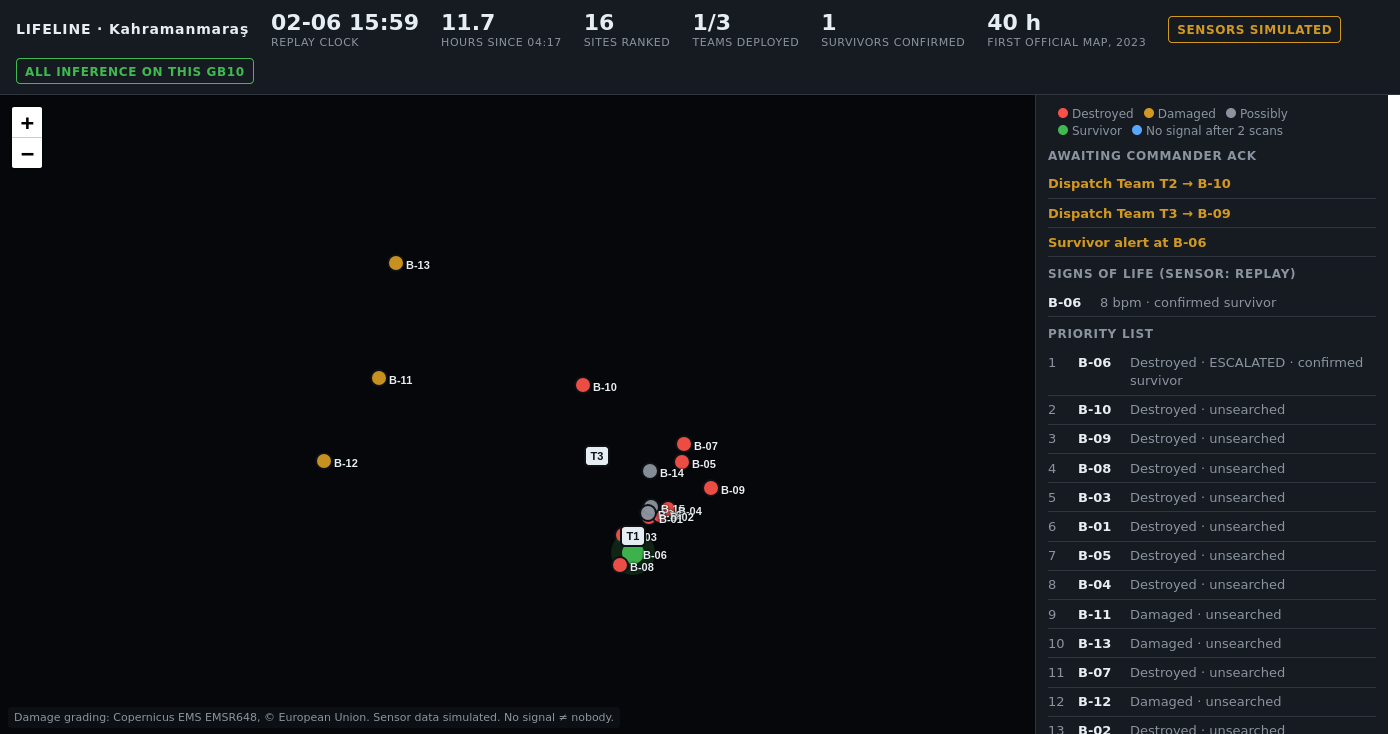
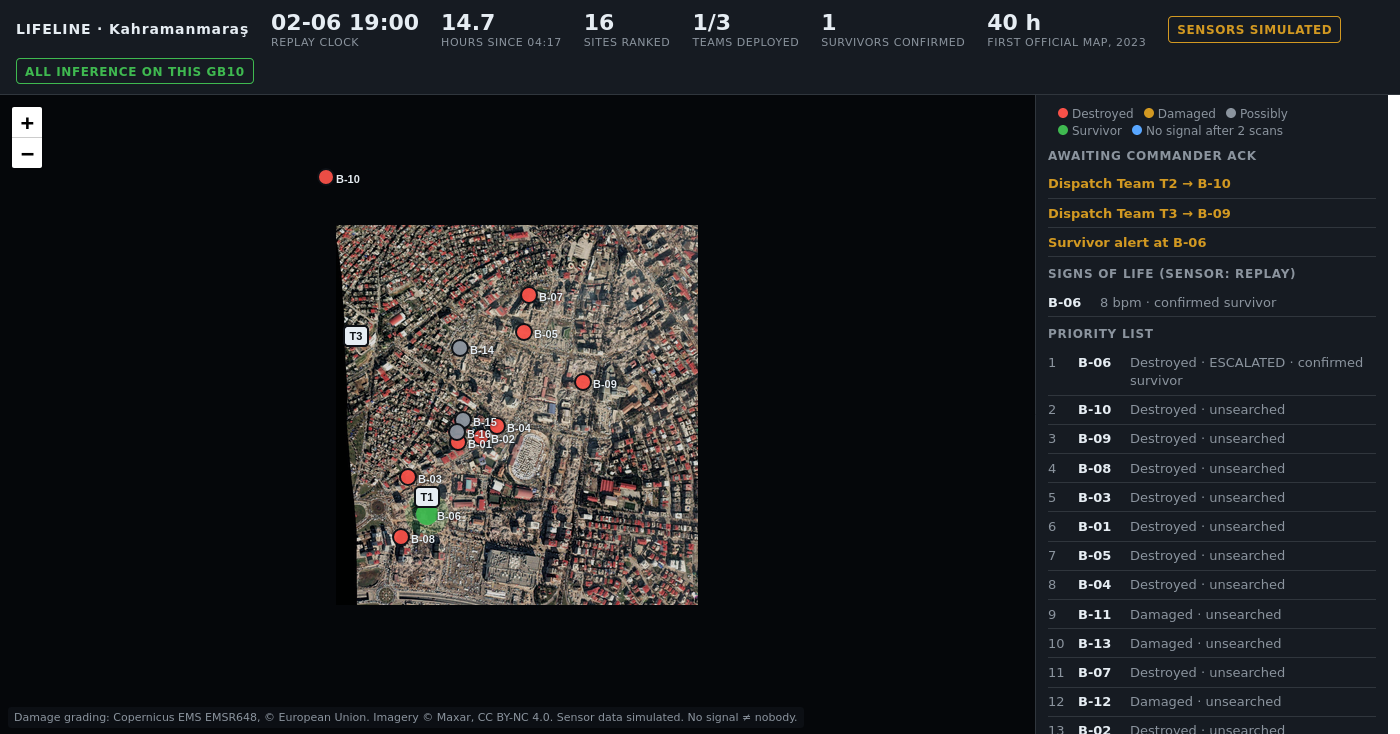
Maxar before/after chips, map overlay, local-vision /assess

diff --git a/map/index.html b/map/index.html
@@ -96,7 +96,8 @@ function render(d) {
     imgattr.textContent = 'Imagery © Maxar, CC BY-NC 4.0. ';
   }
   if (!fitted) {
-    const b = d.bounds || L.latLngBounds(d.sites.map(s => [s.lat, s.lon]));
+    const b = L.latLngBounds(d.sites.map(s => [s.lat, s.lon]));
+    if (d.bounds) b.extend(d.bounds);
     map.fitBounds(b, { padding:[40,40] }); fitted = true;
   }
 

diff --git a/make_chips.py b/make_chips.py
@@ -1,0 +1,74 @@
+"""Build-time only: cut before/after satellite chips per site from Maxar Open Data COGs.
+
+Windowed HTTP range reads, no full downloads. Writes data/img/before_<id>.png,
+data/img/after_<id>.png and data/img/overview_after.png + data/img/overview.json.
+Imagery (c) Maxar, CC BY-NC 4.0 (Maxar Open Data, Kahramanmaras-turkey-earthquake-23).
+"""
+import csv
+import json
+from pathlib import Path
+
+import numpy as np
+import rasterio
+from PIL import Image
+from rasterio.warp import transform
+from rasterio.windows import from_bounds
+
+DATA = Path("data")
+IMG = DATA / "img"
+TSV = DATA / "raw" / "maxar.tsv"
+QUADKEY = "031131233233"
+PRE_ID, POST_ID = "10300100D797E100", "10300100E291D100"   # 2022-07-26 and 2023-02-11
+HALF_M = 75          # 150 m chip around each site
+CHIP_PX = 320
+OVERVIEW_PX = 1600
+
+
+def cog_url(catalog_id):
+    for r in csv.DictReader(TSV.open(), delimiter="\t"):
+        if r["catalog_id"] == catalog_id and r["quadkey"] == QUADKEY:
+            return "/vsicurl/" + r["visual"]
+    raise SystemExit(f"{catalog_id} not in index")
+
+
+def read_box(src, x0, y0, x1, y1, px):
+    win = from_bounds(x0, y0, x1, y1, src.transform)
+    arr = src.read([1, 2, 3], window=win, out_shape=(3, px, px), boundless=True, fill_value=0)
+    return np.moveaxis(arr, 0, -1)
+
+
+def main():
+    IMG.mkdir(parents=True, exist_ok=True)
+    sites = json.loads((DATA / "sites.json").read_text())["sites"]
+    xs, ys = transform("EPSG:4326", "EPSG:32637", [s["lon"] for s in sites], [s["lat"] for s in sites])
+    env = rasterio.Env(GDAL_DISABLE_READDIR_ON_OPEN="EMPTY_DIR", CPL_VSIL_CURL_ALLOWED_EXTENSIONS=".tif")
+    with env, rasterio.open(cog_url(PRE_ID)) as pre, rasterio.open(cog_url(POST_ID)) as post:
+        made = []
+        for s, x, y in zip(sites, xs, ys):
+            chips = [read_box(src, x - HALF_M, y - HALF_M, x + HALF_M, y + HALF_M, CHIP_PX) for src in (pre, post)]
+            if any((c.max(axis=2) == 0).mean() > 0.5 for c in chips):
+                print(f"{s['id']}: outside imagery, skipped")
+                continue
+            Image.fromarray(chips[0]).save(IMG / f"before_{s['id']}.png")
+            Image.fromarray(chips[1]).save(IMG / f"after_{s['id']}.png")
+            made.append(s["id"])
+        print(f"chips: {len(made)} sites {made}")
+
+        # One post-event overview around the covered sites, for the map overlay.
+        cx = [x for s, x in zip(sites, xs) if s["id"] in made]
+        cy = [y for s, y in zip(sites, ys) if s["id"] in made]
+        pad = 250
+        x0, x1, y0, y1 = min(cx) - pad, max(cx) + pad, min(cy) - pad, max(cy) + pad
+        side = max(x1 - x0, y1 - y0)
+        x1, y1 = x0 + side, y0 + side
+        Image.fromarray(read_box(post, x0, y0, x1, y1, OVERVIEW_PX)).save(IMG / "overview_after.jpg", quality=85)
+        lons, lats = transform("EPSG:32637", "EPSG:4326", [x0, x1], [y0, y1])
+        (IMG / "overview.json").write_text(json.dumps({
+            "bounds": [[lats[0], lons[0]], [lats[1], lons[1]]],
+            "image": "/img/overview_after.jpg", "date": "2023-02-11",
+            "attribution": "Imagery (c) Maxar, CC BY-NC 4.0"}))
+        print("overview written")
+
+
+if __name__ == "__main__":
+    main()

diff --git a/toolbox.py b/toolbox.py
@@ -89,7 +89,11 @@ async def assess(site_id: str):
                 r = await c.post(OLLAMA, json={"model": MODEL, "prompt": ASSESS_PROMPT, "images": imgs,
                                                "stream": False, "think": False, "keep_alive": -1})
                 r.raise_for_status()
-                return {**base, "method": f"local-vision ({MODEL})", "answer": r.json()["response"].strip()}
+                ans = r.json()["response"].strip()
+                word = ans.split()[0].strip(".,").lower() if ans else ""
+                agrees = {"collapsed": "Destroyed", "damaged": "Damaged"}.get(word) == s["grade_label"] or (word == "standing" and s["grade"] == 0)
+                return {**base, "method": f"local-vision ({MODEL}), second opinion only, not used in ranking",
+                        "answer": ans, "agrees_with_copernicus": agrees}
         except Exception as e:
             base["vision_error"] = str(e)[:200]
     return {**base, "method": "copernicus-grading", "answer": s["grade_label"]}
@@ -102,7 +106,12 @@ def brief():
 
 @app.get("/map")
 def map_view():
-    return engine.map_view()
+    out = engine.map_view()
+    ov = DATA / "img" / "overview.json"
+    if ov.exists():                     # Maxar post-event overlay, served locally
+        o = json.loads(ov.read_text())
+        out.update(bounds=o["bounds"], overlay_img=o["image"])
+    return out
 
 
 @app.post("/ack")
